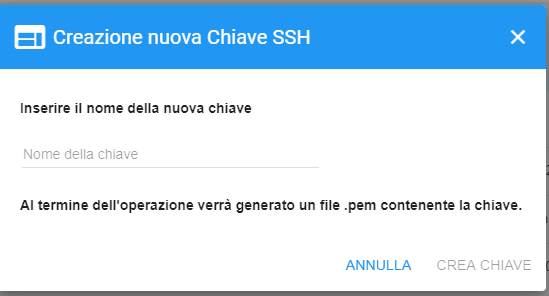
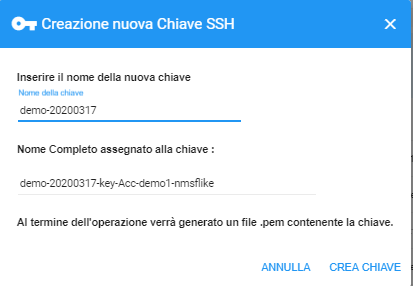
commit 20200317.15

diff --git a/docs/Come_fare_per/11.1_Creare_VM.rst b/docs/Come_fare_per/11.1_Creare_VM.rst
@@ -64,13 +64,13 @@ Con questo metodo si chiede al sistema di generare direttamente una
 nuova **chiave ssh**;
 
 
-Il processo inizia premendo il tasto **"+"**
+La funzione inizia premendo il tasto **"+"**
 
 .. image:: img/Add_VM.png
 
-Nella casella di testo, **Inserire nome della nuova chiave**
-dando modo al sistema di generare la chiave
-unenedo il nome dell'aacount al termine della stringa appena
+Nella casella di testo, **inserire nome della nuova chiave**
+dando modo al sistema di dare un nome alla chiave
+aggiungendo il suffisso "key", il nome dell'account al termine della stringa
 digitata. Terminare premendo **CREA CHIAVE**
 
 .. image:: img/Keyssh-ex-novo.png
@@ -81,12 +81,12 @@ dopo di che distinguerla nella lista e premere **VAI A RIEPILOGO**;
 
 **IMPORTANDO LA CHIAVE SSH**
 
-Premere il tasto per la "creazione"
+Premere il tasto per l' "importazione"
 
 .. image:: img/Crea-ssh-da-lista.png
 
 **Inserire il nome chiave**, immettere la chiave precedentemente generata
-nel campo di testo  **Inserire la chiave** e
+da un sistema esterno a Nivola, nel campo di testo  **Inserire la chiave** e
 premere **IMPORTA**;
 
 .. image:: img/Importa-key-ssh.png
